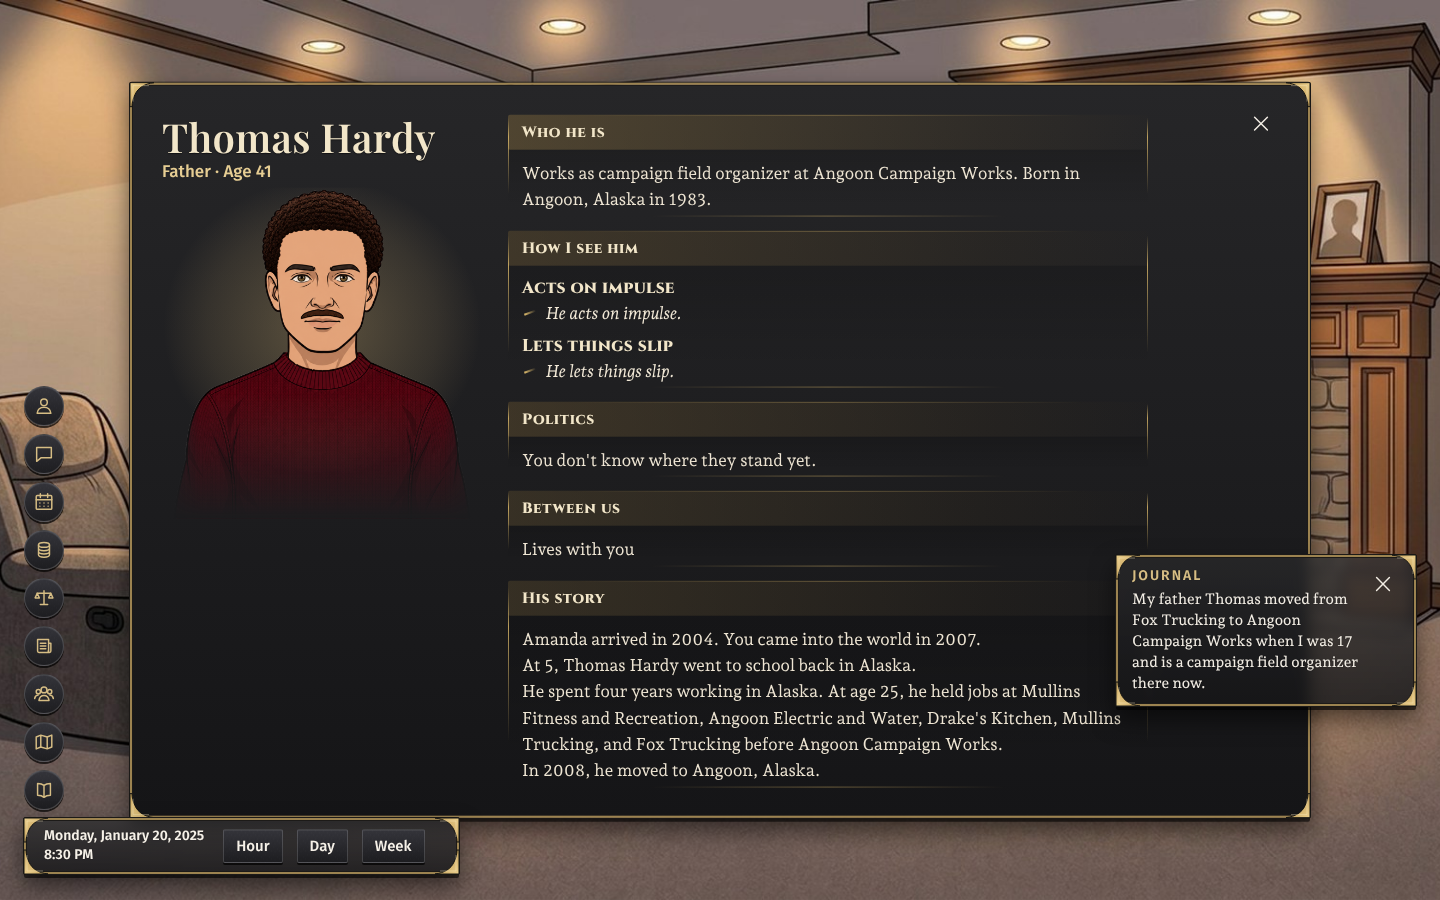
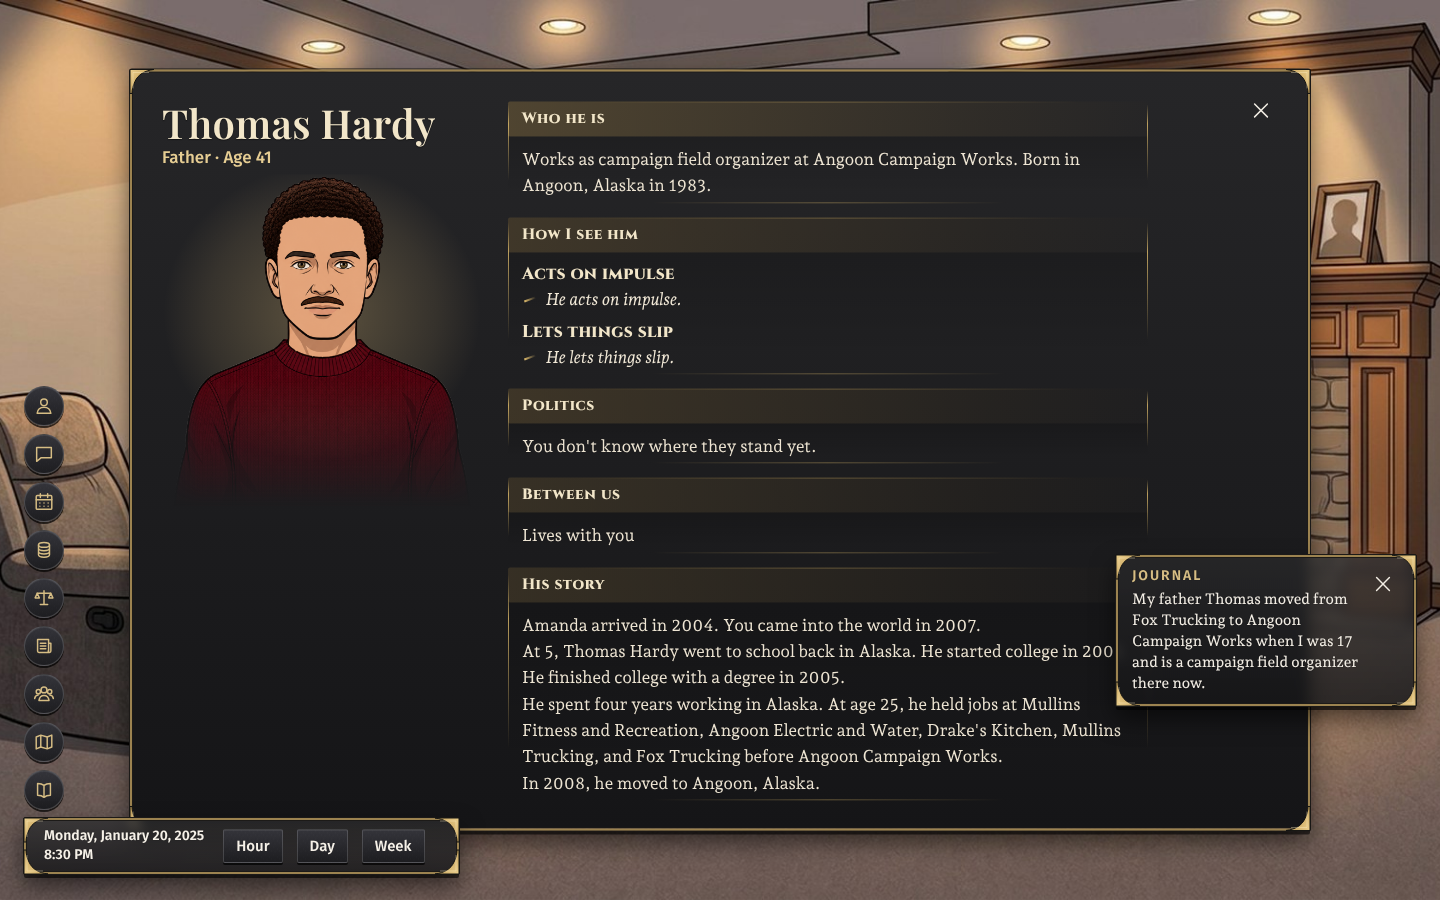
Life record part 9: the card with W2's college lines in four drawn places (docs/seen)
Claude-Session: https://claude.ai/code/session_011uWUjY6561hKSSWbu4rnce

diff --git a/docs/seen/life-record-school-end/README.md b/docs/seen/life-record-school-end/README.md
@@ -1,13 +1,15 @@
-# The end of high school on a person's card (#8927)
+# The end of high school and college on a person's card (#8927)
 
-The owner, Nov 8, 2026: "None of my history is simulated. I can't see anything that my character went through. No, a girlfriend or a car accident or college or whatever." Before this change, an adult's card told the years school started and never when it ended.
+The owner, Nov 8, 2026: "None of my history is simulated. I can't see anything that my character went through. No, a girlfriend or a car accident or college or whatever." Before this change, an adult's card told the years school started and never when it ended, and never college.
 
-Each picture is the card a player opens from "Who I am" on the first evening, for a person at home. Before is main at fd590ccd87; after is #8927 at 2e84cd20b5. Every line on each card is in the `lines.md` beside its picture. The script that took them clicks what a player clicks: "Who I am", then the person's name.
+Each picture is the card a player opens from "Who I am" on the first evening, for a person at home. Before is main at fd590ccd87; after is #8927 at 21a4b00bea, which carries W2's college lines. Every line on each card is in the `lines.md` beside its picture. The script that took them clicks what a player clicks: "Who I am", then the person's name.
 
-| Place and seed                   | Person                     | Before                                              | After                                                                                                                                                            |
-| -------------------------------- | -------------------------- | --------------------------------------------------- | ---------------------------------------------------------------------------------------------------------------------------------------------------------------- |
-| Cayuse, Oregon (seed lrcard01)   | Shannon Garcia, the father | "At 14, he went on to high school."                 | "At 14, he went on to high school. He graduated Cayuse Public Schools in 1996."                                                                                  |
-| Mars Hill, Maine (seed lrcard02) | Heather Lynch, the mother  | "Later, in 1993, she moved up to high school."      | "Later, in 1993, she moved up to high school. She finished at Mars Hill Public Schools in 1997."                                                                 |
-| Angoon, Alaska (seed lrcard03)   | Thomas Hardy, the father   | "At 5, Thomas Hardy went to school back in Alaska." | The same. He went to school in a place the world keeps no school record for, and the bank's line for the end of school names the school, so nothing new is told. |
+| Place and seed                        | Person                       | Before                                              | After                                                                           |
+| ------------------------------------- | ---------------------------- | --------------------------------------------------- | ------------------------------------------------------------------------------- |
+| Cayuse, Oregon (seed lrcard01)        | Shannon Garcia, the father   | "At 14, he went on to high school."                 | "At 14, he went on to high school. He graduated Cayuse Public Schools in 1996." |
+| Cayuse, Oregon (seed lrcard01)        | Elizabeth Garcia, the mother | Her school years in Oregon, then work.              | "She started college in 2005."                                                  |
+| Mars Hill, Maine (seed lrcard02)      | Heather Lynch, the mother    | "Later, in 1993, she moved up to high school."      | "... She finished at Mars Hill Public Schools in 1997."                         |
+| Angoon, Alaska (seed lrcard03)        | Thomas Hardy, the father     | "At 5, Thomas Hardy went to school back in Alaska." | "... He started college in 2001. He finished college with a degree in 2005."    |
+| Diamondville, Wyoming (seed lrcard04) | Erin Farmer, the mother      | Her school years, then work.                        | "She began college in 1994. She left college in 1996 before finishing."         |
 
-College is not on any card yet: its three lines are Story's to write (the pull request names the spots), and the card leaves out a line the bank cannot fill.
+Thomas Hardy's high school is not told as finished, because he went to school where the world keeps no school record and the bank's line for the end of school names the school. In his picture the Journal's note covers the end of one line; the `lines.md` has it whole.

diff --git a/docs/seen/life-record-school-end/after/diamondville-wyoming-lines.md b/docs/seen/life-record-school-end/after/diamondville-wyoming-lines.md
@@ -1,0 +1,91 @@
+seed lrcard04 place Diamondville, Wyoming
+== Who I am
+You
+You
+Jobs and study
+Your life
+Brandon Farmer
+Age 17
+Who I am
+I live in Diamondville, Wyoming. I was born in Diamondville, Wyoming in 2007.
+Politics
+Conservative
+What I'm like
+Reserved
+STRONG
+I keep to myself.
+Acts on impulse
+STRONG
+I act on impulse.
+Confrontational
+STRONG
+I don't back down from a fight.
+Cautious
+STRONG
+I play it safe.
+My people
+Erin Farmer (mother), Curtis Farmer (brother), Caleb Farmer (brother)
+My life
+At 5, I was enrolled at Diamondville Public Schools. At age 11, I went on to middle school. At 14, I began high school.
+== Erin Farmer
+Erin Farmer
+Erin Farmer
+Mother · Age 49
+Who she is
+Lives in Diamondville, Wyoming. Born in Diamondville, Wyoming in 1975.
+How I see her
+Reserved
+She keeps to herself.
+Conciliatory
+She would rather find common ground than fight.
+Politics
+You don't know where they stand yet.
+Between us
+Lives with you
+Her story
+In 1993, Anya was born. Then James was born in 1996. Kyle arrived after, in 1999. Alicia came next, in 2002. Caleb followed in 2005. You arrived in 2007.
+At age 5, Erin Farmer did her schooling in Wyoming. She began college in 1994. She left college in 1996 before finishing.
+She had a job in Wyoming for six years. Then in 2002, she put in time at Smith's Market before Marshall Construction.
+At 26, she moved to Diamondville, Wyoming.
+== Curtis Farmer
+Curtis Farmer
+Curtis Farmer
+Brother · Age 13
+Who he is
+A student at Diamondville Public Schools. Born in Diamondville, Wyoming in 2011.
+How I see him
+Lets things slip
+He lets things slip.
+Outgoing
+He loves being around people.
+Takes chances
+He'll take a chance most people wouldn't.
+Politics
+You don't know where they stand yet.
+Between us
+Lives with you
+At school with you · Diamondville Public Schools
+His story
+In 2016, Curtis Farmer started out at Diamondville Public Schools. Later, in 2022, he went on to middle school.
+== Caleb Farmer
+Caleb Farmer
+Caleb Farmer
+Brother · Age 19
+Who he is
+Lives in Diamondville, Wyoming. Born in Diamondville, Wyoming in 2005.
+How I see him
+Acts on impulse
+He acts on impulse.
+Confrontational
+He doesn't back down from a fight.
+Lets things slip
+He lets things slip.
+Takes chances
+He'll take a chance most people wouldn't.
+Politics
+You don't know where they stand yet.
+Between us
+Lives with you
+His story
+In 2010, Caleb Farmer grew up going to school in Wyoming. He enrolled in college in 2023.
+In 2024, he came to live in Diamondville, Wyoming.

diff --git a/docs/seen/life-record-school-end/before/diamondville-wyoming-lines.md b/docs/seen/life-record-school-end/before/diamondville-wyoming-lines.md
@@ -1,0 +1,91 @@
+seed lrcard04 place Diamondville, Wyoming
+== Who I am
+You
+You
+Jobs and study
+Your life
+Brandon Farmer
+Age 17
+Who I am
+I live in Diamondville, Wyoming. I was born in Diamondville, Wyoming in 2007.
+Politics
+Conservative
+What I'm like
+Reserved
+STRONG
+I keep to myself.
+Acts on impulse
+STRONG
+I act on impulse.
+Confrontational
+STRONG
+I don't back down from a fight.
+Cautious
+STRONG
+I play it safe.
+My people
+Erin Farmer (mother), Curtis Farmer (brother), Caleb Farmer (brother)
+My life
+At 5, I was enrolled at Diamondville Public Schools. At age 11, I went on to middle school. At 14, I began high school.
+== Erin Farmer
+Erin Farmer
+Erin Farmer
+Mother · Age 49
+Who she is
+Lives in Diamondville, Wyoming. Born in Diamondville, Wyoming in 1975.
+How I see her
+Reserved
+She keeps to herself.
+Conciliatory
+She would rather find common ground than fight.
+Politics
+You don't know where they stand yet.
+Between us
+Lives with you
+Her story
+In 1993, Anya was born. Then James was born in 1996. Kyle arrived after, in 1999. Alicia came next, in 2002. Caleb followed in 2005. You arrived in 2007.
+At age 5, Erin Farmer did her schooling in Wyoming.
+She had a job in Wyoming for six years. Then in 2002, she put in time at Smith's Market before Marshall Construction.
+At 26, she moved to Diamondville, Wyoming.
+== Curtis Farmer
+Curtis Farmer
+Curtis Farmer
+Brother · Age 13
+Who he is
+A student at Diamondville Public Schools. Born in Diamondville, Wyoming in 2011.
+How I see him
+Lets things slip
+He lets things slip.
+Outgoing
+He loves being around people.
+Takes chances
+He'll take a chance most people wouldn't.
+Politics
+You don't know where they stand yet.
+Between us
+Lives with you
+At school with you · Diamondville Public Schools
+His story
+In 2016, Curtis Farmer started out at Diamondville Public Schools. Later, in 2022, he went on to middle school.
+== Caleb Farmer
+Caleb Farmer
+Caleb Farmer
+Brother · Age 19
+Who he is
+Lives in Diamondville, Wyoming. Born in Diamondville, Wyoming in 2005.
+How I see him
+Acts on impulse
+He acts on impulse.
+Confrontational
+He doesn't back down from a fight.
+Lets things slip
+He lets things slip.
+Takes chances
+He'll take a chance most people wouldn't.
+Politics
+You don't know where they stand yet.
+Between us
+Lives with you
+His story
+In 2010, Caleb Farmer grew up going to school in Wyoming.
+In 2024, he came to live in Diamondville, Wyoming.

diff --git a/docs/seen/life-record-school-end/after/cayuse-oregon-lines.md b/docs/seen/life-record-school-end/after/cayuse-oregon-lines.md
@@ -39,7 +39,7 @@ Between us
 Lives with you
 Her story
 In 2007, she shared a home with Shannon Garcia. You came into the world in 2007. Amy arrived in 2011. Julia arrived after, in 2016.
-At age 5, Elizabeth Garcia grew up going to school in Oregon.
+At age 5, Elizabeth Garcia grew up going to school in Oregon. She started college in 2005. She earned a bachelor's degree in 2009.
 She spent six months looking for work in 2009. She worked a year and a half in Oregon. At age 24, she found work at Cayuse Fire Department.
 At 26, she put down roots in Cayuse, Oregon.
 == Shannon Garcia

diff --git a/docs/seen/life-record-school-end/after/angoon-alaska-lines.md b/docs/seen/life-record-school-end/after/angoon-alaska-lines.md
@@ -42,6 +42,6 @@ Between us
 Lives with you
 His story
 Amanda arrived in 2004. You came into the world in 2007.
-At 5, Thomas Hardy went to school back in Alaska.
+At 5, Thomas Hardy went to school back in Alaska. He started college in 2001. He finished college with a degree in 2005.
 He spent four years working in Alaska. At age 25, he held jobs at Mullins Fitness and Recreation, Angoon Electric and Water, Drake's Kitchen, Mullins Trucking, and Fox Trucking before Angoon Campaign Works.
 In 2008, he moved to Angoon, Alaska.
